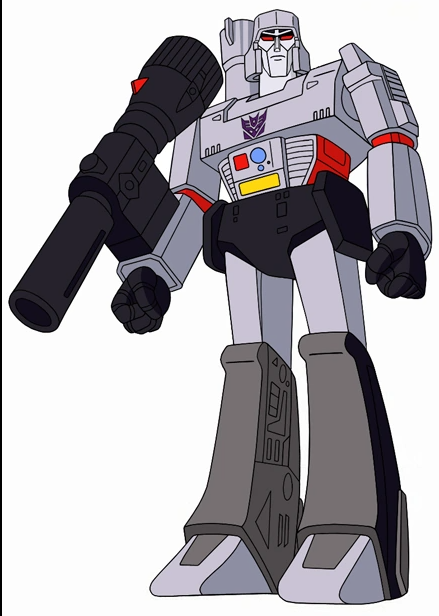
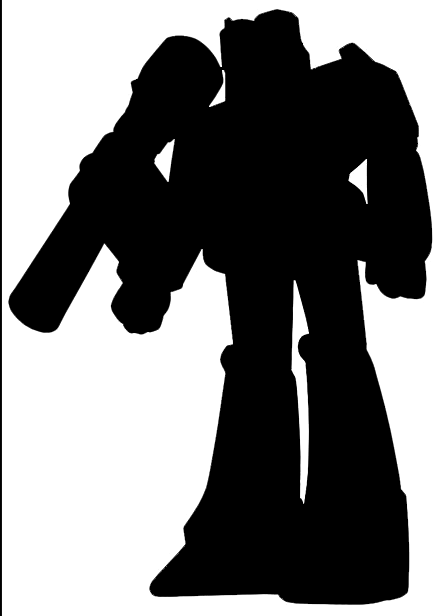
Sprint 6 terminado

diff --git a/src/app/Components/adivina-quien/adivina-quien.component.ts b/src/app/Components/adivina-quien/adivina-quien.component.ts
@@ -22,6 +22,7 @@ export class AdivinaQuienComponent implements OnInit {
   private correctAnswer: string;
   private scoring: HighScore;
   private dateToday: string;
+  private imgName: number;
 
   constructor(
     private toaster: ToastrService,
@@ -47,6 +48,7 @@ export class AdivinaQuienComponent implements OnInit {
         this.Score = 0;
       }
     });
+    this.imgName = 0;
   }
 
   ngOnInit(): void {
@@ -54,11 +56,11 @@ export class AdivinaQuienComponent implements OnInit {
   }
 
   setupGame() {
-    var imgName = Math.floor(Math.random() * 4);
-    imgName++;
+    this.imgName = Math.floor(Math.random() * 4);
+    this.imgName++;
 
-    this.imgTf = "assets/Games/Guess-Who/" + imgName + ".png";
-    switch (imgName) {
+    this.imgTf = "assets/Games/Guess-Who/" + this.imgName + ".png";
+    switch (this.imgName) {
       case 1:
         this.correctAnswer = "megatron";
         break;
@@ -98,9 +100,9 @@ export class AdivinaQuienComponent implements OnInit {
   }
 
   resetGame(hardReset: boolean) {
-    if(hardReset){
-      this.Score=0
-    }    
+    if (hardReset) {
+      this.Score = 0
+    }
     this.countHint = 0;
     this.showTextHint = false;
     this.gameOver = false;
@@ -112,6 +114,26 @@ export class AdivinaQuienComponent implements OnInit {
 
   showHint() {
     this.countHint++;
+    if (this.countHint == 1) {
+      switch (this.imgName) {
+        case 1:
+          this.imgName=12;
+          break;
+        case 2:
+          this.imgName=22;
+          break;
+        case 3:
+          this.imgName=32;
+          break;
+        case 4:
+          this.imgName=42;
+          break;
+        default:
+          break;
+      }
+      this.imgTf = "assets/Games/Guess-Who/" + this.imgName + ".png";
+    }
+
     if (this.countHint == 2) {
       this.showTextHint = true;
       this.disableIconHint = true;

diff --git a/src/app/app-routing.module.ts b/src/app/app-routing.module.ts
@@ -10,6 +10,8 @@ import { MayorMenorComponent } from './Components/mayor-menor/mayor-menor.compon
 import { PreguntadosComponent } from './Components/preguntados/preguntados.component';
 import { QuienSoyComponent } from './Components/quien-soy/quien-soy.component';
 import { RegistroComponent } from './Components/registro/registro.component';
+import { ResultadosEncuestaComponent } from './Components/resultados-encuesta/resultados-encuesta.component';
+import { ResultadoEncuestaActivateGuard } from './Guard/resultadoEncuestaActivate/resultado-encuesta-activate.guard';
 
 const routes: Routes = [
   {
@@ -31,25 +33,7 @@ const routes: Routes = [
   {
     path: "registro",
     component: RegistroComponent
-  },
-  // {
-  //   path: "juegos",
-  //   component: JuegosComponent,
-  //   children: [{
-  //     path: "juegos/ahorcado",
-  //     component: AhorcadoComponent
-  //   }, {
-  //     path: "mayor-menor",
-  //     component: MayorMenorComponent
-  //   }, {
-  //     path: "preguntados",
-  //     component: PreguntadosComponent
-  //   }, {
-  //     path: "adivina-quien",
-  //     component: AdivinaQuienComponent
-  //   }
-  //   ]
-  // },
+  },  
   {
     path: "juegos",
     component: JuegosComponent
@@ -68,10 +52,15 @@ const routes: Routes = [
     component: AdivinaQuienComponent
   },
   {
+    path: "resultados-encuesta",
+    component: ResultadosEncuestaComponent,
+    canActivate: [ResultadoEncuestaActivateGuard]
+  },
+  {
     path: "",
     redirectTo: "/home",
     pathMatch: "full"
-  },];
+  }];
 
 @NgModule({
   imports: [RouterModule.forRoot(routes)],

diff --git a/src/app/Services/Authentication/authentication.service.ts b/src/app/Services/Authentication/authentication.service.ts
@@ -19,6 +19,7 @@ export class AuthenticationService {
   public openChat: boolean;
   private isLogged$: Subject<boolean>;
   public user: string;
+  public isAdmin: boolean;
 
   constructor(
     private catchErrorFB: FirebaseCatchErrorService,
@@ -29,6 +30,7 @@ export class AuthenticationService {
     this.openChat = false;
     this.isLogged$ = new Subject();
     this.user = "";
+    this.isAdmin = false;
   }
 
   getIsLogged() {
@@ -41,6 +43,9 @@ export class AuthenticationService {
     return signInWithEmailAndPassword(auth, email, password).then((userCredentials: any) => {
       const user = userCredentials.user;
       if (user) {
+        if (user.email == "quintessons@admin.com") {
+          this.isAdmin = true;
+        }
         this.isLogged = true;
         this.user = user.email;
         this.isLogged$.next(this.isLogged);
@@ -57,6 +62,7 @@ export class AuthenticationService {
   signOut() {
     this.isLogged = false;
     this.openChat = false;
+    this.isAdmin = false;
     this.user = "";
     this.isLogged$.next(this.isLogged);
 
@@ -67,7 +73,7 @@ export class AuthenticationService {
 
     return createUserWithEmailAndPassword(auth, email, password).then((userCredentials) => {
       const user2 = userCredentials.user;
-      if (user2) {
+      if (user2) {        
         this._toastr.success("Se ha registrado con éxito!");
         this._router.navigate(['home']);
       } else {

diff --git a/src/app/Components/resultados-encuesta/resultados-encuesta.component.html b/src/app/Components/resultados-encuesta/resultados-encuesta.component.html
@@ -1,0 +1,35 @@
+<div class="table-responsive">
+    <table class="table table-striped table-sm resultados">
+        <thead>
+            <tr>
+                <th scope="col">Usuario</th>
+                <th scope="col">Edad</th>
+                <th scope="col">Faccion</th>
+                <th scope="col">Juegos preferidos</th>
+                <th scope="col">Comentarios</th>
+            </tr>
+        </thead>
+        <tbody>
+            <tr *ngFor="let quiz of quizzes">
+                <td>{{quiz.name}} {{quiz.lastName}}</td>
+                <td>{{quiz.age}}</td>
+                <td>{{quiz.faction}}</td>                
+                <select class="inputSpecialty input">
+                    <option *ngIf="quiz.game_Asked" value="preguntados">
+                        Preguntados
+                    </option>
+                    <option *ngIf="quiz.game_GuessWho" value="adivinaQuien">
+                        Adivina Quien
+                    </option>
+                    <option *ngIf="quiz.game_HangedUp" value="ahorcado">
+                        Ahorcado
+                    </option>
+                    <option *ngIf="quiz.game_HigherLower" value="mayorMenor">
+                        Mayor-Menor
+                    </option>
+                </select>
+                <td>{{quiz.comments}}</td>
+            </tr>
+        </tbody>
+    </table>
+</div>

diff --git a/src/app/Components/login/login.component.ts b/src/app/Components/login/login.component.ts
@@ -43,22 +43,20 @@ export class LoginComponent {
   enterCredentials(userType: number) {
     switch (userType) {
       case 1:
-        // (<HTMLInputElement>document.getElementById("emailLogin")).value = "optimus@autobots.com";
-        // (<HTMLInputElement>document.getElementById("passwordLogin")).value = "optimus";
         this.emailLogin = "optimus@autobots.com";
         this.passwordLogin = "optimus";
         break;
       case 2:
-        // (<HTMLInputElement>document.getElementById("emailLogin")).value = "megatron@decepticons.com";
-        // (<HTMLInputElement>document.getElementById("passwordLogin")).value = "megatron";
         this.emailLogin = "megatron@decepticons.com";
         this.passwordLogin = "megatron";
         break;
       case 3:
-        // (<HTMLInputElement>document.getElementById("emailLogin")).value = "thundertron@starseeker.com";
-        // (<HTMLInputElement>document.getElementById("passwordLogin")).value = "thundertron";
         this.emailLogin = "thundertron@starseekers.com";
         this.passwordLogin = "thundertron";
+        break;
+      case 4:
+        this.emailLogin = "quintessons@admin.com";
+        this.passwordLogin = "quintessons";
         break;
       default:
         break;

diff --git a/src/app/Guard/resultadoEncuestaActivate/resultado-encuesta-activate.guard.ts b/src/app/Guard/resultadoEncuestaActivate/resultado-encuesta-activate.guard.ts
@@ -1,0 +1,32 @@
+import { Injectable } from '@angular/core';
+import { ActivatedRouteSnapshot, CanActivate, Router, RouterStateSnapshot, UrlTree } from '@angular/router';
+import { Observable } from 'rxjs';
+import { AuthenticationService } from 'src/app/Services/Authentication/authentication.service';
+
+@Injectable({
+  providedIn: 'root'
+})
+export class ResultadoEncuestaActivateGuard implements CanActivate {
+
+  constructor(
+    private authService: AuthenticationService,
+    private router: Router
+  ) {
+
+
+  }
+  canActivate(
+    route: ActivatedRouteSnapshot,
+    state: RouterStateSnapshot): Observable<boolean | UrlTree> | Promise<boolean | UrlTree> | boolean | UrlTree {
+    var isLogged = this.authService.isLogged;
+    var email = this.authService.user;
+    var returnAux = false;
+
+    if (isLogged && email == "quintessons@admin.com") {
+      returnAux = true;
+    }
+
+    return returnAux;
+  }
+
+}

diff --git a/src/app/Components/resultados-encuesta/resultados-encuesta.component.ts b/src/app/Components/resultados-encuesta/resultados-encuesta.component.ts
@@ -1,0 +1,27 @@
+import { Component, OnInit } from '@angular/core';
+import { Quiz } from 'src/app/Entities/Quiz/quiz';
+import { FirestoreService } from 'src/app/Services/FireStore/firestore.service';
+
+@Component({
+  selector: 'app-resultados-encuesta',
+  templateUrl: './resultados-encuesta.component.html',
+  styleUrls: ['./resultados-encuesta.component.css']
+})
+export class ResultadosEncuestaComponent implements OnInit {
+  public quizzes: Quiz[]
+
+  constructor(
+    private firestore: FirestoreService
+  ) {
+    this.quizzes = [];
+  }
+
+  ngOnInit(): void {
+    this.firestore.getCollection("quizzes", "quizID").subscribe((quizzes) => {
+      quizzes.forEach((element: any) => {
+        this.quizzes.push(element);
+      });
+    });
+  }
+
+}

diff --git a/src/app/Components/resultados-encuesta/resultados-encuesta.component.spec.ts b/src/app/Components/resultados-encuesta/resultados-encuesta.component.spec.ts
@@ -1,0 +1,25 @@
+import { ComponentFixture, TestBed } from '@angular/core/testing';
+
+import { ResultadosEncuestaComponent } from './resultados-encuesta.component';
+
+describe('ResultadosEncuestaComponent', () => {
+  let component: ResultadosEncuestaComponent;
+  let fixture: ComponentFixture<ResultadosEncuestaComponent>;
+
+  beforeEach(async () => {
+    await TestBed.configureTestingModule({
+      declarations: [ ResultadosEncuestaComponent ]
+    })
+    .compileComponents();
+  });
+
+  beforeEach(() => {
+    fixture = TestBed.createComponent(ResultadosEncuestaComponent);
+    component = fixture.componentInstance;
+    fixture.detectChanges();
+  });
+
+  it('should create', () => {
+    expect(component).toBeTruthy();
+  });
+});

diff --git a/src/app/app.module.ts b/src/app/app.module.ts
@@ -30,6 +30,7 @@ import { HighScoreComponent } from './Components/high-score/high-score.component
 import { DatePipe } from './Pipes/Date/date.pipe';
 import { ScorePipe } from './Pipes/Score/score.pipe';
 import { EncuestaComponent } from './Components/encuesta/encuesta.component';
+import { ResultadosEncuestaComponent } from './Components/resultados-encuesta/resultados-encuesta.component';
 
 @NgModule({
   declarations: [
@@ -49,6 +50,7 @@ import { EncuestaComponent } from './Components/encuesta/encuesta.component';
     DatePipe,
     ScorePipe,
     EncuestaComponent,
+    ResultadosEncuestaComponent,
   ],
   imports: [
     HttpClientModule,

diff --git a/src/app/Components/home/home.component.html b/src/app/Components/home/home.component.html
@@ -25,7 +25,12 @@
                         <li>
                             <a routerLink="/encuesta">Encuesta</a>
                         </li>
-                    </div>                    
+                    </div>  
+                    <div *ngIf="_authService.isLogged && _authService.isAdmin">
+                        <li>
+                            <a routerLink="/resultados-encuesta">Resultados de encuesta</a>
+                        </li>
+                    </div>                   
                     <li>
                         <a routerLink="/quien-soy">Quien soy</a>
                     </li>

diff --git a/src/app/Guard/resultadoEncuestaActivate/resultado-encuesta-activate.guard.spec.ts b/src/app/Guard/resultadoEncuestaActivate/resultado-encuesta-activate.guard.spec.ts
@@ -1,0 +1,16 @@
+import { TestBed } from '@angular/core/testing';
+
+import { ResultadoEncuestaActivateGuard } from './resultado-encuesta-activate.guard';
+
+describe('ResultadoEncuestaActivateGuard', () => {
+  let guard: ResultadoEncuestaActivateGuard;
+
+  beforeEach(() => {
+    TestBed.configureTestingModule({});
+    guard = TestBed.inject(ResultadoEncuestaActivateGuard);
+  });
+
+  it('should be created', () => {
+    expect(guard).toBeTruthy();
+  });
+});

diff --git a/src/app/Components/registro/registro.component.ts b/src/app/Components/registro/registro.component.ts
@@ -54,6 +54,10 @@ export class RegistroComponent implements OnInit {
         this.emailRegistration = "thundertron@starseekers.com";
         this.passwordRegistration = "thundertron";
         break;
+      case 4:
+        this.emailRegistration = "quintessons@admin.com";
+        this.passwordRegistration = "quintessons";
+        break;
       default:
         break;
     }
